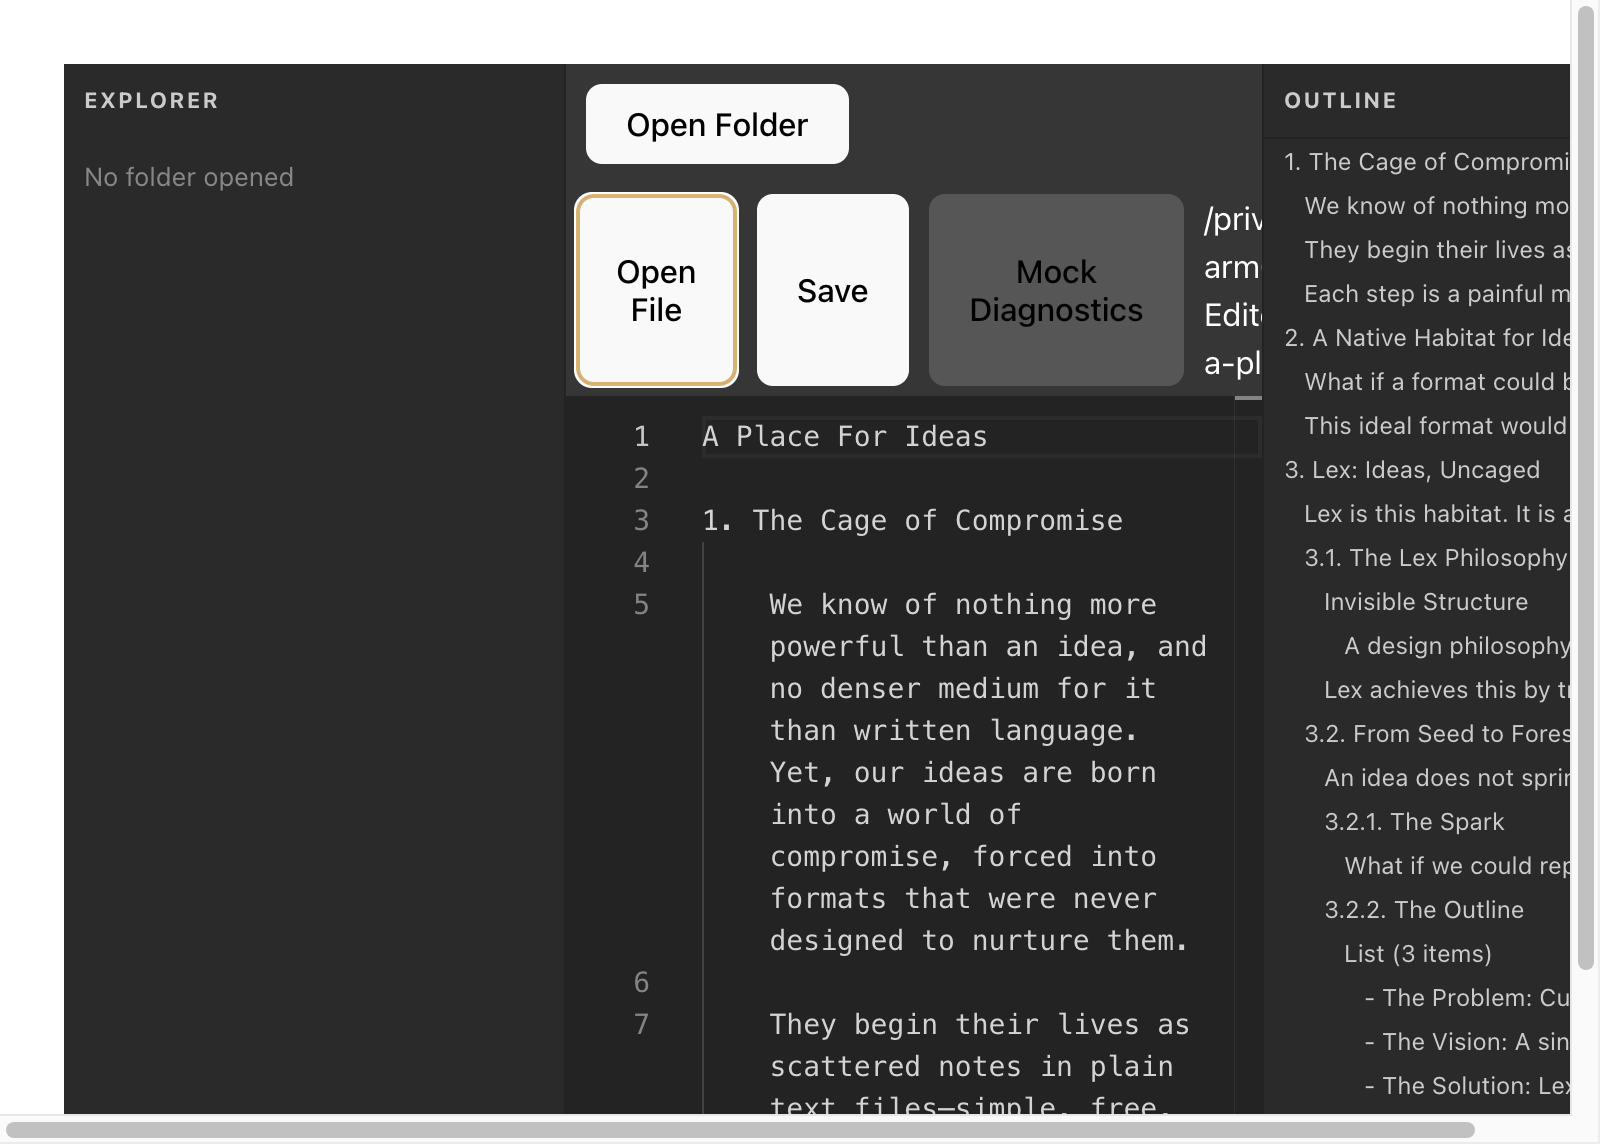
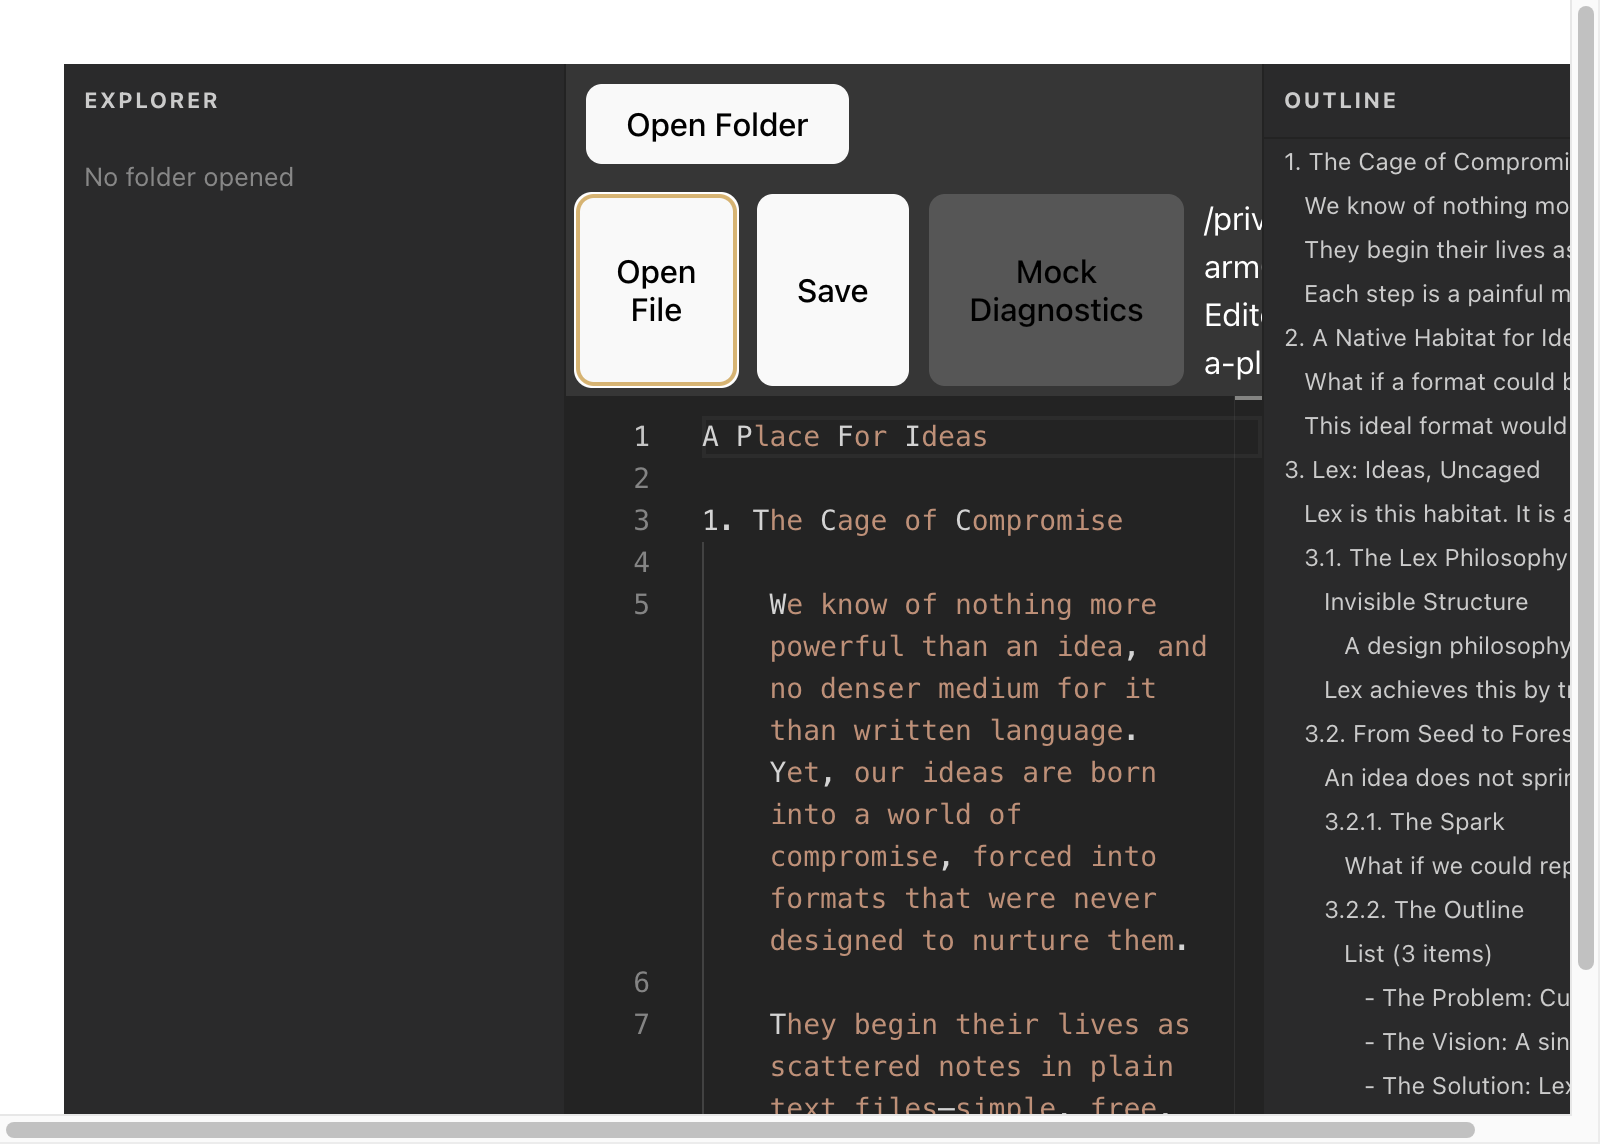
Fix outline view regression

diff --git a/lex-desktop/src/lsp/client.ts b/lex-desktop/src/lsp/client.ts
@@ -8,17 +8,47 @@ export type LspMessage = {
 };
 
 export class LspClient {
+  // @ts-ignore
+  private ipcRenderer: any;
+  // @ts-ignore
+  private languageId: string;
   private requestId = 0;
   private pendingRequests = new Map<number | string, { resolve: (val: any) => void; reject: (err: any) => void }>();
   private notificationHandlers = new Map<string, (params: any) => void>();
 
   private buffer: Uint8Array = new Uint8Array(0);
 
-  constructor() {
+  constructor(ipcRenderer: any, languageId: string) {
+    this.ipcRenderer = ipcRenderer;
+    this.languageId = languageId;
+
     // @ts-ignore
     window.ipcRenderer.on('lsp-output', (_event, data: Uint8Array) => {
-      this.appendBuffer(data);
-      this.processBuffer();
+        this.appendBuffer(data);
+        this.processBuffer();
+    });
+  }
+
+  async start() {
+    // await this.ipcRenderer.invoke('start-lsp'); // Assuming start-lsp is handled by main process automatically or elsewhere
+    this.initialize();
+  }
+
+  private initialize() {
+    // Placeholder for actual LSP initialization logic
+    // Example: send an initialize request
+    this.sendRequest('initialize', {
+      processId: null,
+      rootUri: null,
+      capabilities: {},
+      clientInfo: {
+        name: 'CodeMirror LSP Client',
+        version: '1.0.0'
+      }
+    }).then(response => {
+      // console.log('[LspClient] Initialization response:', response);
+    }).catch(error => {
+      console.error('[LspClient] Initialization failed:', error);
     });
   }
 
@@ -31,63 +61,63 @@ export class LspClient {
 
   private processBuffer() {
     while (true) {
-      // Find header end (\r\n\r\n = 13 10 13 10)
-      let headerEndIndex = -1;
-      for (let i = 0; i < this.buffer.length - 3; i++) {
-        if (this.buffer[i] === 13 && this.buffer[i+1] === 10 && this.buffer[i+2] === 13 && this.buffer[i+3] === 10) {
-          headerEndIndex = i + 4;
-          break;
+        // Find header end (\r\n\r\n = 13 10 13 10)
+        let headerEndIndex = -1;
+        for (let i = 0; i < this.buffer.length - 3; i++) {
+            if (this.buffer[i] === 13 && this.buffer[i+1] === 10 && this.buffer[i+2] === 13 && this.buffer[i+3] === 10) {
+                headerEndIndex = i + 4;
+                break;
+            }
         }
-      }
 
-      if (headerEndIndex === -1) return;
+        if (headerEndIndex === -1) break; // Not enough data for a full header yet
 
-      const headerBytes = this.buffer.slice(0, headerEndIndex);
-      const headerString = new TextDecoder().decode(headerBytes);
-      const match = headerString.match(/Content-Length: (\d+)/);
-      
-      if (!match) {
-        // Invalid header, discard? Or maybe wait for more data?
-        // If we found \r\n\r\n but no Content-Length, it's bad.
-        // For now, assume it's there.
-        console.error('Invalid LSP header', headerString);
-        this.buffer = this.buffer.slice(headerEndIndex);
-        continue;
-      }
+        const headerBytes = this.buffer.slice(0, headerEndIndex);
+        const headerString = new TextDecoder().decode(headerBytes);
+        const match = headerString.match(/Content-Length: (\d+)/);
+        
+        if (!match) {
+            // Invalid header, discard this part of the buffer and continue
+            console.error('Invalid LSP header, discarding:', headerString);
+            this.buffer = this.buffer.slice(headerEndIndex);
+            continue;
+        }
 
-      const contentLength = parseInt(match[1], 10);
-      
-      if (this.buffer.length < headerEndIndex + contentLength) return;
+        const contentLength = parseInt(match[1], 10);
+        
+        if (this.buffer.length < headerEndIndex + contentLength) break; // Not enough data for the full message body
 
-      const bodyBytes = this.buffer.slice(headerEndIndex, headerEndIndex + contentLength);
-      this.buffer = this.buffer.slice(headerEndIndex + contentLength);
+        const bodyBytes = this.buffer.slice(headerEndIndex, headerEndIndex + contentLength);
+        this.buffer = this.buffer.slice(headerEndIndex + contentLength);
 
-      try {
-        const bodyString = new TextDecoder().decode(bodyBytes);
-        const message: LspMessage = JSON.parse(bodyString);
-        this.handleMessage(message);
-      } catch (e) {
-        console.error('Failed to parse LSP message', e);
-      }
+        try {
+            const bodyString = new TextDecoder().decode(bodyBytes);
+            const message: LspMessage = JSON.parse(bodyString);
+            this.handleMessage(message);
+        } catch (e) {
+            console.error('Failed to parse LSP message', e);
+        }
     }
   }
 
   private handleMessage(message: LspMessage) {
-    if (message.id !== undefined && this.pendingRequests.has(message.id)) {
-      // Response to a request
-      const { resolve, reject } = this.pendingRequests.get(message.id)!;
-      this.pendingRequests.delete(message.id);
-      if (message.error) {
-        reject(message.error);
-      } else {
-        resolve(message.result);
-      }
+    if (message.id !== undefined) {
+        // Response to a request
+        if (this.pendingRequests.has(message.id)) {
+            const { resolve, reject } = this.pendingRequests.get(message.id)!;
+            this.pendingRequests.delete(message.id);
+            if (message.error) {
+                reject(message.error);
+            } else {
+                resolve(message.result);
+            }
+        }
     } else if (message.method) {
-      // Notification or Request from server
-      const handler = this.notificationHandlers.get(message.method);
-      if (handler) {
-        handler(message.params);
-      }
+        // Notification or Request from server
+        const handler = this.notificationHandlers.get(message.method);
+        if (handler) {
+            handler(message.params);
+        }
     }
   }
 
@@ -130,4 +160,7 @@ export class LspClient {
   }
 }
 
-export const lspClient = new LspClient();
+// Export a singleton instance for backward compatibility
+// Note: This instance might not be fully initialized if used before Editor.tsx sets it up
+// Ideally, we should refactor to dependency injection or context
+export const lspClient = new LspClient((window as any).ipcRenderer || {}, 'lex');

diff --git a/lex-desktop/tests/e2e/packaged.spec.ts b/lex-desktop/tests/e2e/packaged.spec.ts
@@ -47,10 +47,10 @@ test.describe('Packaged Application', () => {
         // Wait for editor content to load (look for specific text from the file)
         await page.waitForSelector('.view-lines', { timeout: 10000 });
         
-        // Check for outline (TODO: Fix LSP connection in packaged app)
-        // await page.waitForSelector('.outline-node', { timeout: 20000 });
-        // const outlineNodes = await page.locator('.outline-node').count();
-        // expect(outlineNodes).toBeGreaterThan(0);
+        // Check for outline
+        await page.waitForSelector('.outline-node', { timeout: 20000 });
+        const outlineNodes = await page.locator('.outline-node').count();
+        expect(outlineNodes).toBeGreaterThan(0);
 
     } catch (e) {
         console.error('Test failed. Dumping page content...');

diff --git a/lex-desktop/src/components/Editor.tsx b/lex-desktop/src/components/Editor.tsx
@@ -34,13 +34,13 @@ export function Editor({ fileToOpen, onFileLoaded }: EditorProps) {
             // }
 
             const uri = monaco.Uri.file(path);
-            const model = monaco.editor.createModel(content, 'lex-debug', uri);
+            const model = monaco.editor.createModel(content, 'lex', uri);
             editorRef.current.setModel(model);
 
             lspClient.sendNotification('textDocument/didOpen', {
                 textDocument: {
                     uri: uri.toString(),
-                    languageId: 'lex-debug',
+                    languageId: 'lex',
                     version: 1,
                     text: content
                 }

diff --git a/lex-desktop/src/components/Outline.tsx b/lex-desktop/src/components/Outline.tsx
@@ -64,6 +64,7 @@ export function Outline({ currentFile }: OutlineProps) {
         return items.map((item, index) => (
             <div key={index}>
                 <div
+                    className="outline-node"
                     style={{
                         paddingLeft: `${depth * 10 + 10}px`,
                         paddingTop: '2px',
